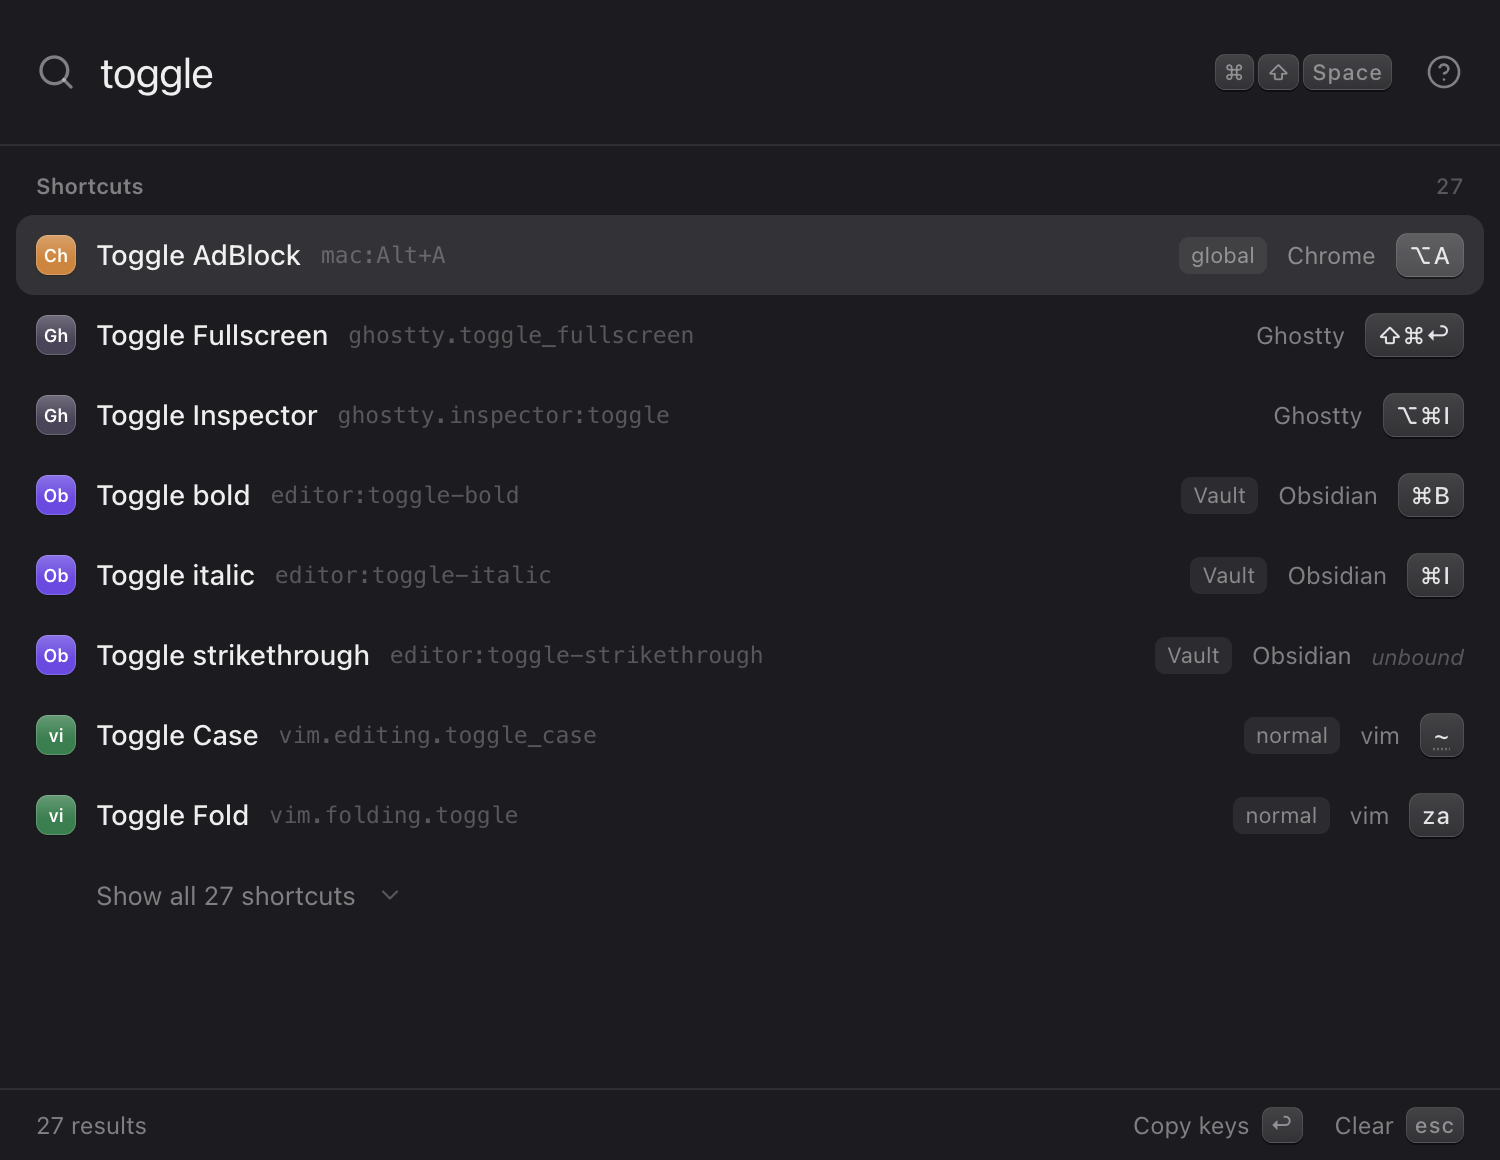
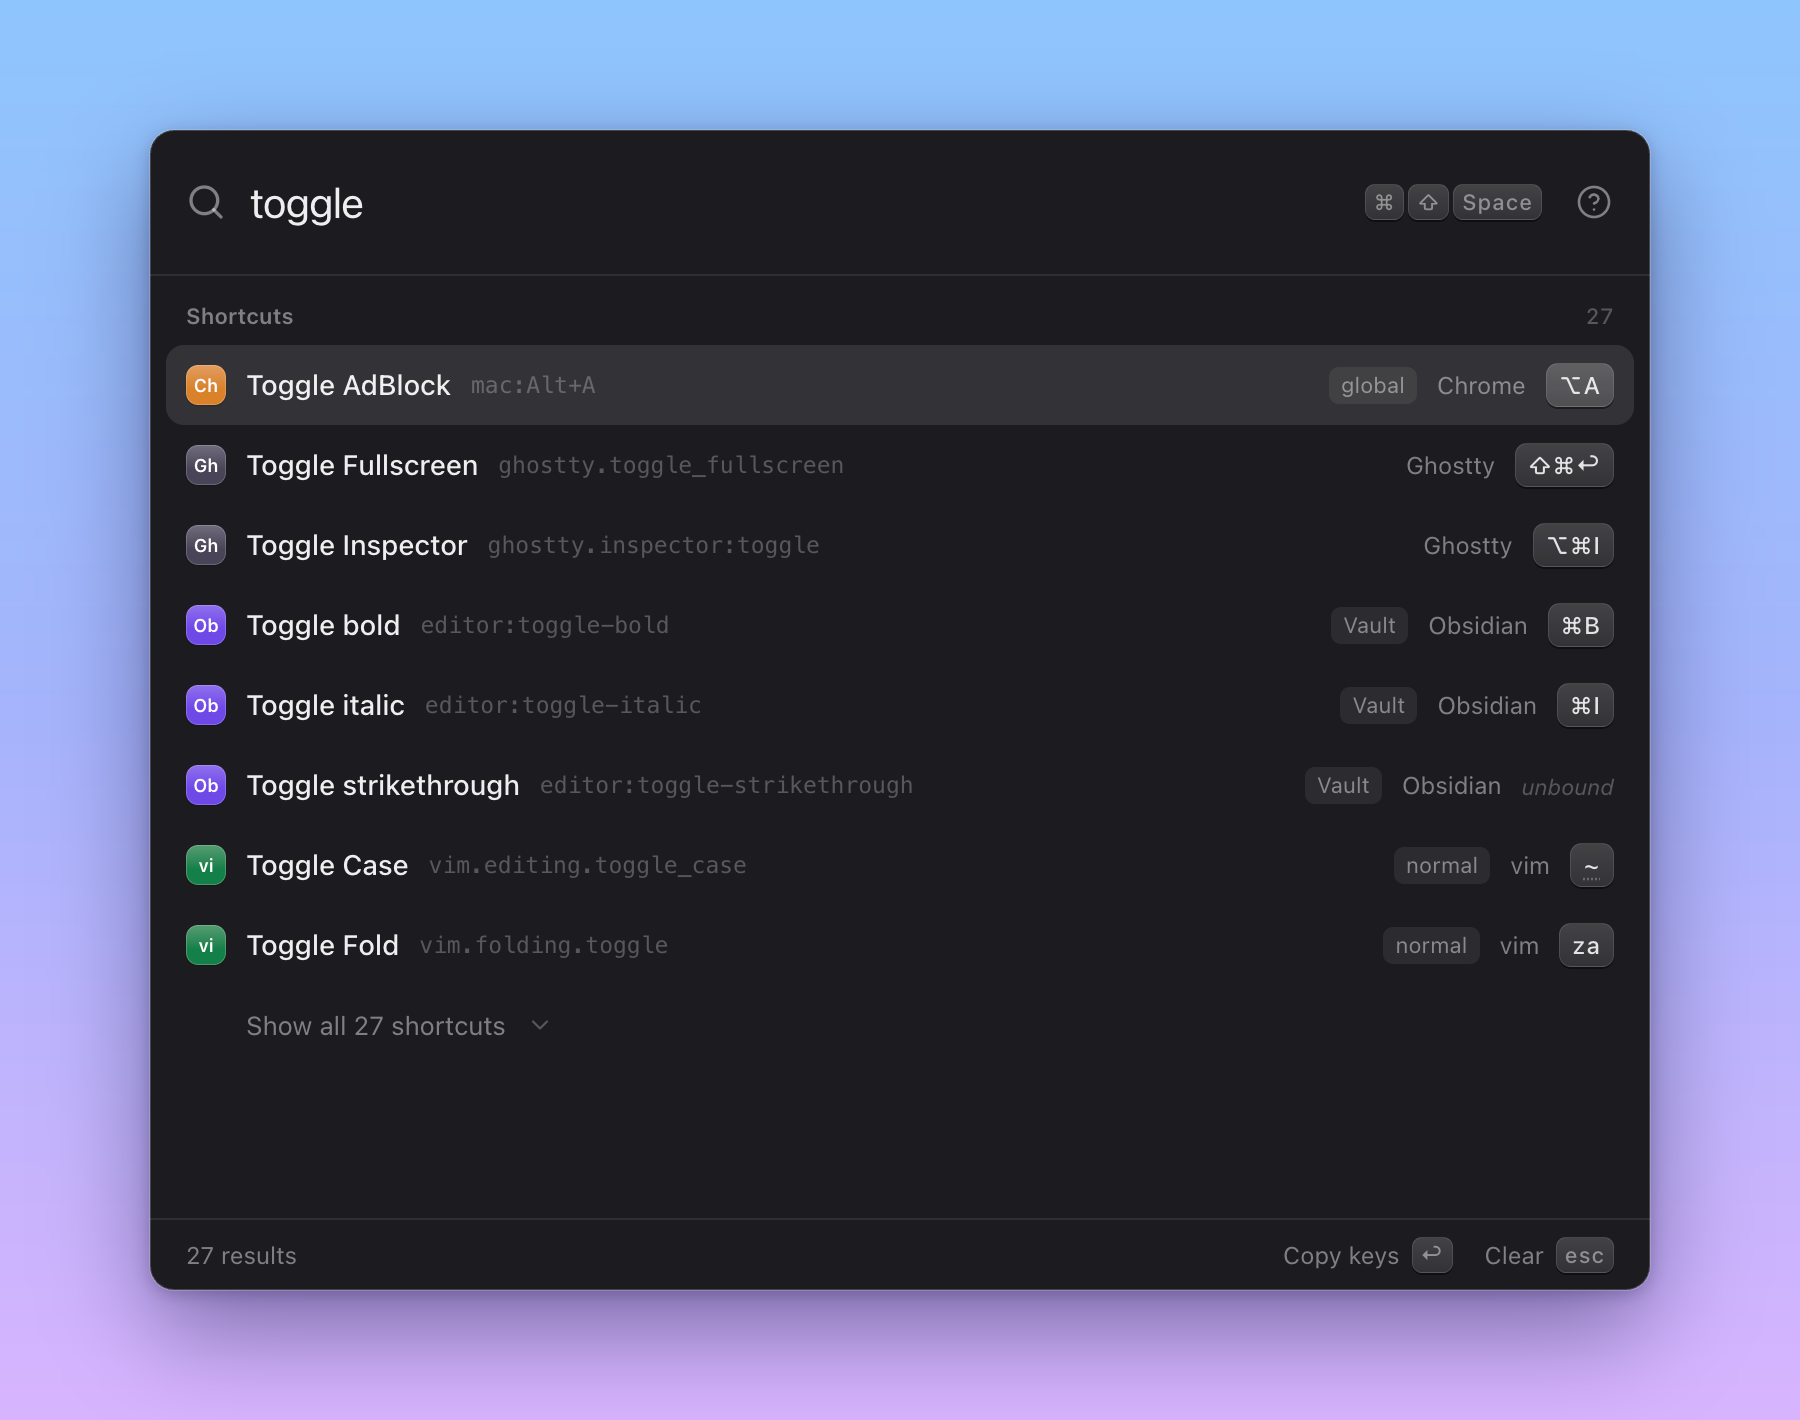
docs: frame the README screenshots on a gradient (#103)
## What

- Raw window captures move to `docs/assets/raw/` (the e2e README spec
now writes there).
- New `make readme-images` (in `make help`) runs
`scripts/readme-images.mjs` with the repo's Electron: a canvas in a
hidden window composes each raw capture onto a generated blue-purple
gradient with generous padding, rounded corners, a soft two-layer drop
shadow and a hairline edge, and writes it to `docs/assets/` under the
same name. `make readme-screenshots` now captures, then frames.
- Regenerated `readme-tmux.png`, `readme-vim.png`, `readme-kubectl.png`
and `launcher.png` (used by `docs/screens.md`). README.md is unchanged.
- Workflow documented in `docs/runbooks/run-e2e-tests.md`.

## Why

The README screenshots were bare window crops; framing them like a macOS
app showcase reads better. The backdrop is generated (no third-party
wallpaper), and the pipeline is scripted and reproducible, with no new
dependency.

## Verification

- `make readme-images` run twice: byte-identical output (shasum), so it
is deterministic.
- Viewed every generated PNG. Sizes: 274-396 KB each (1800x1420), all
under 500 KB. The gradient is painted row by row because canvas
gradients are dithered, which roughly tripled the PNG size.
- `make precommit` (lint, typecheck, test, knip) passed in the
pre-commit hook. A later `make check` had one failure in
`sandbox-exec.test.ts` (a subprocess timed out while the host load
average was around 35). The file passes when run alone, and this PR does
[…]

diff --git a/tests/e2e/readme.spec.ts b/tests/e2e/readme.spec.ts
@@ -1,12 +1,13 @@
 /**
  * README screenshots: the launcher on tmux, vim and a real kubectl help.
  * Skipped unless SHORTTY_E2E_README=1 (run via `make readme-screenshots`).
- * Writes docs/assets/readme-*.png.
+ * Writes the raw captures to docs/assets/raw/readme-*.png; `make readme-images`
+ * frames them into docs/assets.
  */
 import path from 'node:path';
 import { test, expect, launchShortty, screenshot, waitForEnrichment } from './fixtures';
 
-const OUT = path.resolve(__dirname, '../../docs/assets');
+const OUT = path.resolve(__dirname, '../../docs/assets/raw');
 const FIXTURES = path.resolve(__dirname, '../../fixtures');
 
 /** Real captured help, served by fake binaries on the hermetic PATH. */

diff --git a/docs/runbooks/run-e2e-tests.md b/docs/runbooks/run-e2e-tests.md
@@ -18,8 +18,21 @@ API and drives it with the keyboard, the way a user does. Specs live in
 ```bash
 make e2e                          # build, then run every spec (~40 s on Apple silicon)
 make e2e-benchmark LABEL=baseline # build, then write docs/wip/benchmark/<LABEL>-*
-make readme-screenshots           # build, then regenerate docs/assets/readme-*.png (tmux, vim, kubectl)
+make readme-screenshots           # build, recapture docs/assets/raw/readme-*.png (tmux, vim, kubectl), then frame them
+make readme-images                # frame docs/assets/raw/*.png into docs/assets/ only (no build, a few seconds)
 ```
+
+README and docs screenshots come in two layers. The raw window captures live in
+`docs/assets/raw/` (committed); `make readme-images` composes each one onto a
+generated blue-purple gradient with padding, rounded corners and a drop shadow
+(`scripts/readme-images.mjs`, drawn on a canvas in a hidden Electron window)
+and writes it to `docs/assets/` under the same name, which is what README.md
+and `docs/screens.md` reference. The output is deterministic: rerunning it
+without new raw captures leaves the files unchanged. To change the look, edit
+the `FRAME` constants in the script and rerun `make readme-images`; commit the
+raw and the framed PNGs together. `launcher.png` has no spec: replace
+`docs/assets/raw/launcher.png` by hand (a 2x capture of the 750 pt window) and
+rerun the target.
 
 Single spec or test, after a build (`make package`):
 
@@ -89,7 +102,7 @@ saves it before a test and restores it after.
 | `SHORTTY_E2E_FIXME=1` | Run tests marked as known bugs instead of reporting them as fixme (to check a fix) |
 | `SHORTTY_E2E_KEEP=1` | Keep each test's temp dir for inspection |
 | `SHORTTY_E2E_BENCHMARK=<label>` | Enable `benchmark.spec.ts` (set by `make e2e-benchmark`) |
-| `SHORTTY_E2E_README=1` | Enable `readme.spec.ts`: README screenshots from real captured kubectl/tmux help (set by `make readme-screenshots`) |
+| `SHORTTY_E2E_README=1` | Enable `readme.spec.ts`: raw README screenshots in `docs/assets/raw/` from real captured kubectl/tmux help (set by `make readme-screenshots`) |
 | `SHORTTY_E2E_SHOTS=<dir>` | Make `preferences.spec.ts` save a screenshot of every Preferences tab, and `command-detail.spec.ts` of the command detail sections, light and dark, to `<dir>` (outside `test-results/`, which each run clears) |
 
 ## Writing tests
